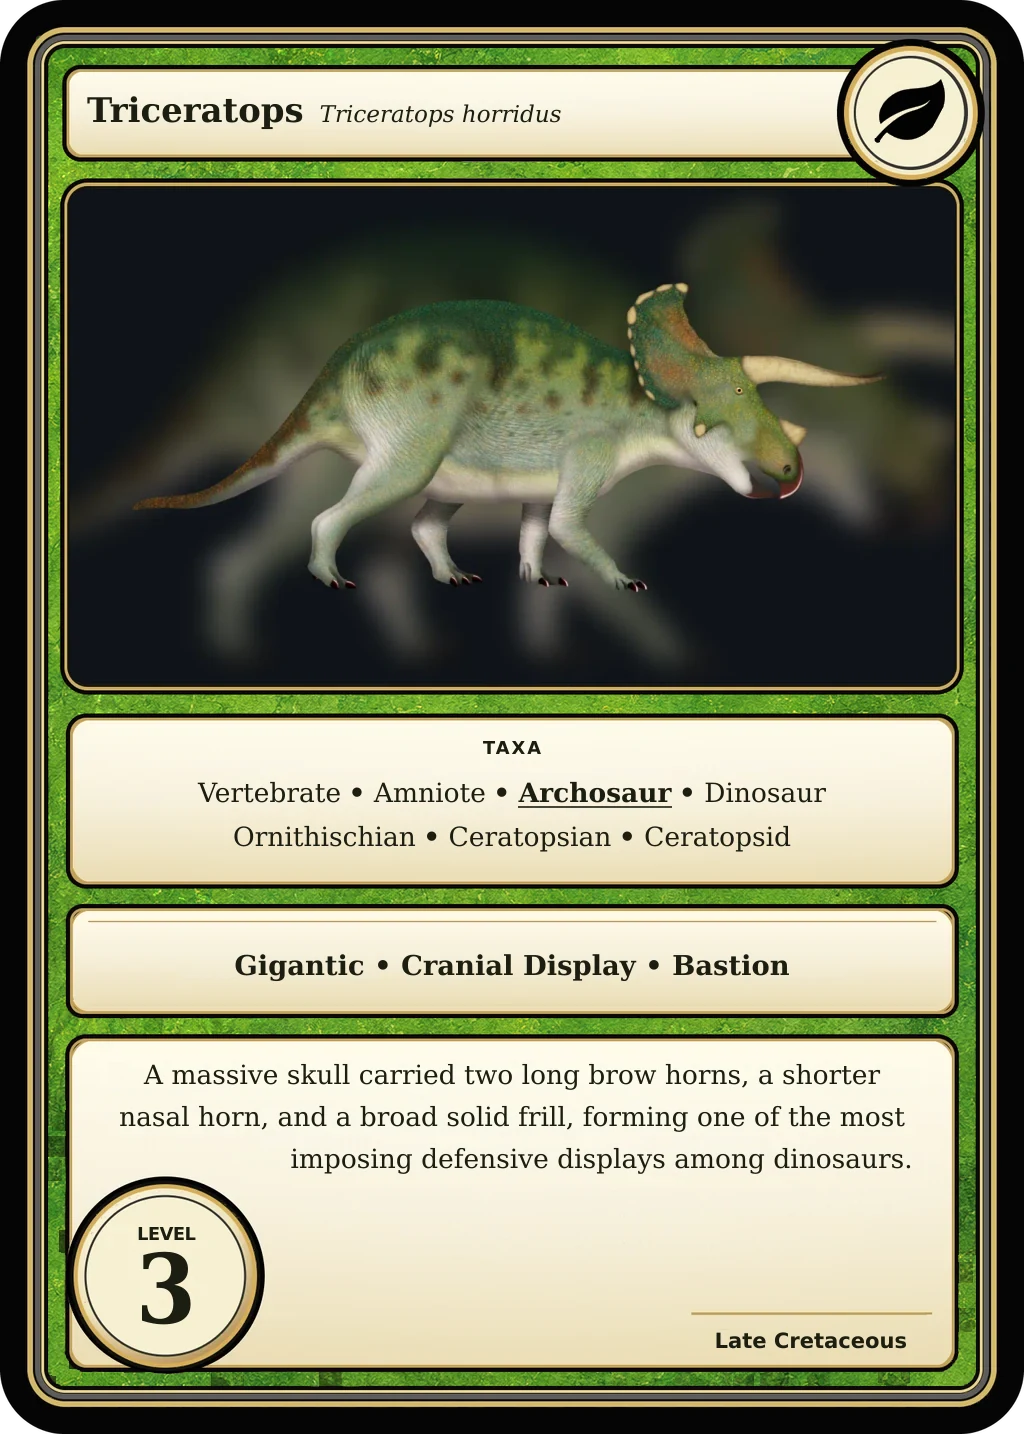
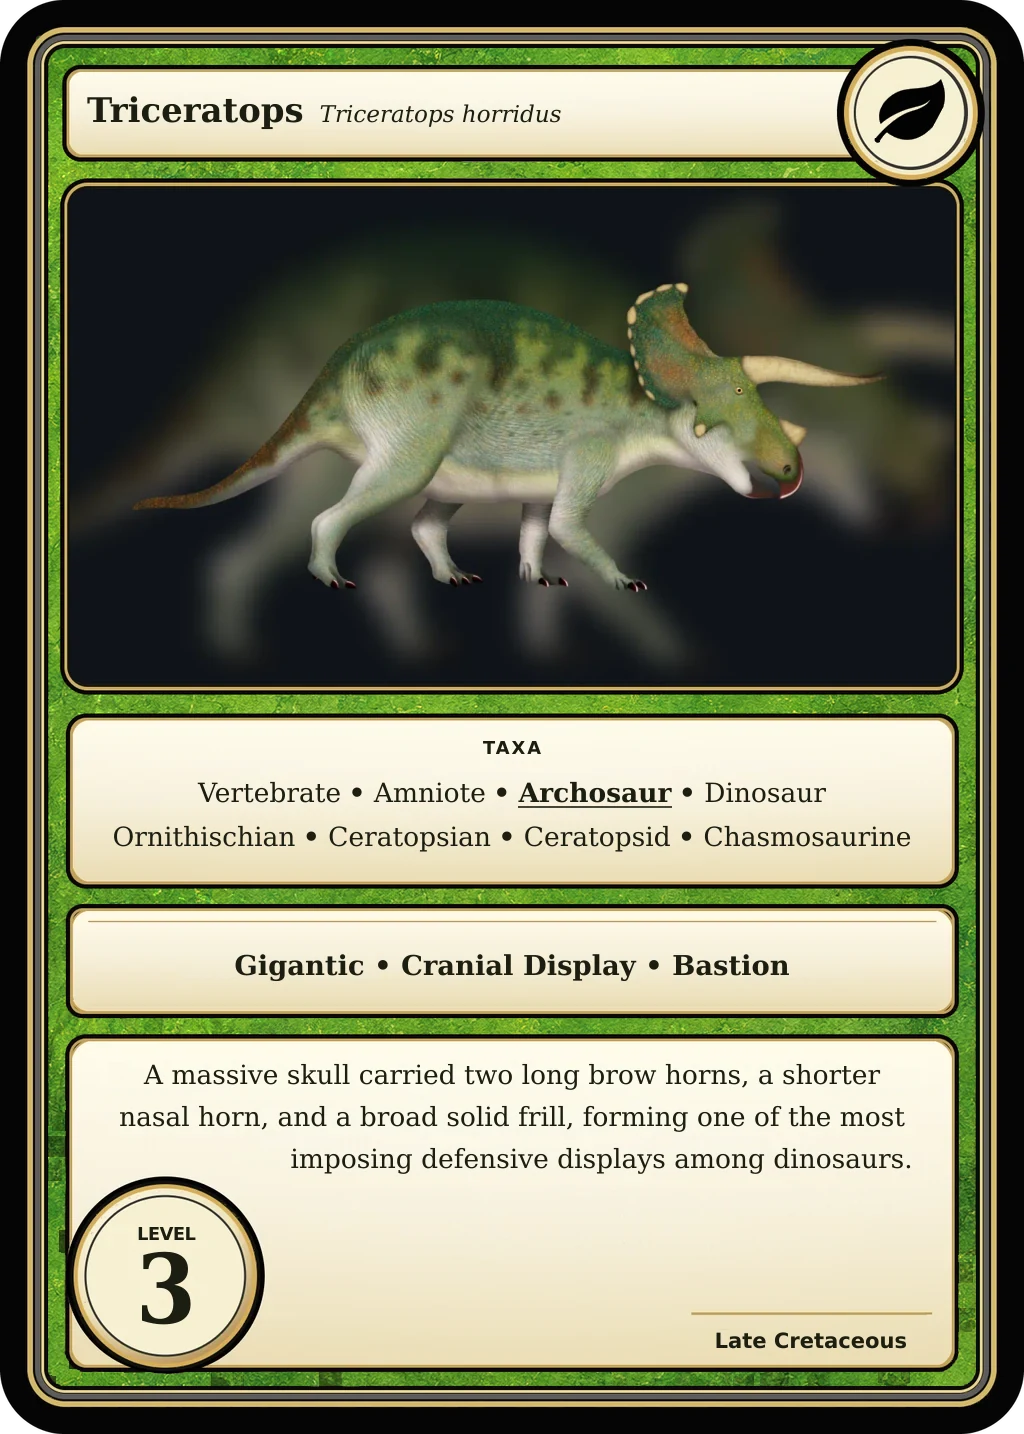
Make creature taxa consistent and remake their card faces
Gameplay Taxa: the whales are Synapsid like the other mammals, Horseshoe Crab
is Chelicerate like Jaekelopterus, and the marine reptiles are Diapsid, which
their taxa list.

Related cards now list the same ranks: every theropod lists Tetanuran >
Coelurosaur > Paravian where it applies, without Neotheropod or Maniraptoran;
the ornithischians gain Chasmosaurine, Saurolophine, Iguanodontian and
Ankylosaur; Megalodon gains Euselachian, Omnidens Ecdysozoan and Diplocaulus
Lepospondyl. The 29 affected card faces are remade, with long taxa lists on
three lines.

Changed region(s): [[0.1562, 0.5523, 0.8438, 0.6137]]

diff --git a/src/data/deck-3.ts b/src/data/deck-3.ts
@@ -153,7 +153,7 @@ export const DECK_3_UNIQUE_CREATURES: CreatureCard[] = [
     period: "Cambrian",
     periodColor: "Sky Blue",
     gameplayTaxon: "Stem Euarthropod",
-    taxa: ["Invertebrate", "Ecdysozoan", "Panarthropod", "Stem Euarthropod"],
+    taxa: ["Invertebrate", "Protostome", "Ecdysozoan", "Panarthropod", "Stem Euarthropod"],
     tags: ["Aquatic", "Apex Predator", "Transitional"],
     visualTags: [],
     role: "An unusually low-Level Apex Predator whose early phylogenetic position supports several Cambrian development routes.",
@@ -313,18 +313,8 @@ export const DECK_3_UNIQUE_CREATURES: CreatureCard[] = [
     diet: "Carnivore",
     period: "Quaternary",
     periodColor: "Ice White",
-    gameplayTaxon: "Mammal",
-    taxa: [
-      "Vertebrate",
-      "Gnathostome",
-      "Tetrapod",
-      "Amniote",
-      "Synapsid",
-      "Mammal",
-      "Cetacean",
-      "Odontocete",
-      "Delphinid",
-    ],
+    gameplayTaxon: "Synapsid",
+    taxa: ["Vertebrate", "Amniote", "Synapsid", "Mammal", "Cetacean", "Odontocete", "Delphinid"],
     tags: ["Aquatic", "Pack Hunter", "Apex Predator", "Resourceful"],
     visualTags: ["Countershaded", "Dorsal Fin", "Flippers"],
     role: "Coordinated Apex Predator whose Pack Hunter and Resourceful Tags represent learned, flexible group hunting.",
@@ -341,7 +331,7 @@ export const DECK_3_UNIQUE_CREATURES: CreatureCard[] = [
     period: "Neogene",
     periodColor: "Golden Ochre",
     gameplayTaxon: "Chondrichthyan",
-    taxa: ["Vertebrate", "Gnathostome", "Chondrichthyan", "Shark", "Lamniform", "Otodontid"],
+    taxa: ["Vertebrate", "Gnathostome", "Chondrichthyan", "Euselachian", "Shark", "Lamniform", "Otodontid"],
     tags: ["Aquatic", "Apex Predator", "Specialized", "Crushing Bite"],
     visualTags: ["Serrated Teeth"],
     role: "Specialized marine boss whose doubled Crushing Bite is built to break exceptional attacked-only defenses.",
@@ -374,18 +364,8 @@ export const DECK_3_UNIQUE_CREATURES: CreatureCard[] = [
     diet: "Carnivore",
     period: "Neogene",
     periodColor: "Golden Ochre",
-    gameplayTaxon: "Mammal",
-    taxa: [
-      "Vertebrate",
-      "Gnathostome",
-      "Tetrapod",
-      "Amniote",
-      "Synapsid",
-      "Mammal",
-      "Cetacean",
-      "Odontocete",
-      "Physeteroid",
-    ],
+    gameplayTaxon: "Synapsid",
+    taxa: ["Vertebrate", "Amniote", "Synapsid", "Mammal", "Cetacean", "Odontocete", "Physeteroid"],
     tags: ["Aquatic", "Apex Predator", "Specialized", "Diver"],
     visualTags: ["Massive Teeth", "Flippers"],
     role: "Specialized doubles Diver from +1 to +2 Battle Level while attacking printed Aquatic prey.",
@@ -401,18 +381,8 @@ export const DECK_3_UNIQUE_CREATURES: CreatureCard[] = [
     diet: "Carnivore",
     period: "Quaternary",
     periodColor: "Ice White",
-    gameplayTaxon: "Mammal",
-    taxa: [
-      "Vertebrate",
-      "Gnathostome",
-      "Tetrapod",
-      "Amniote",
-      "Synapsid",
-      "Mammal",
-      "Cetacean",
-      "Mysticete",
-      "Balaenopterid",
-    ],
+    gameplayTaxon: "Synapsid",
+    taxa: ["Vertebrate", "Amniote", "Synapsid", "Mammal", "Cetacean", "Mysticete", "Balaenopterid"],
     tags: ["Aquatic", "Filter Feeder", "Specialized", "Gigantic"],
     visualTags: ["Baleen", "Ventral Grooves", "Paired Blowholes", "Flippers", "Tail Flukes"],
     role: "Exceptional non-predatory Deck 3 capstone. Filter Feeder supplies utility, while Specialized doubles Gigantic's numerical effects without changing its protection.",

diff --git a/src/data/general-pool.ts b/src/data/general-pool.ts
@@ -36,7 +36,16 @@ export const GENERAL_POOL_CANDIDATES: CreatureCard[] = [
     period: "Cretaceous",
     periodColor: "Lime Green",
     gameplayTaxon: "Archosaur",
-    taxa: ["Vertebrate", "Amniote", "Archosaur", "Dinosaur", "Ornithischian", "Thyreophoran", "Ankylosaurid"],
+    taxa: [
+      "Vertebrate",
+      "Amniote",
+      "Archosaur",
+      "Dinosaur",
+      "Ornithischian",
+      "Thyreophoran",
+      "Ankylosaur",
+      "Ankylosaurid",
+    ],
     tags: ["Armament", "Retaliation"],
     visualTags: ["Armored", "Tail Club", "Beaked", "Quadrupedal"],
     role: "Durable reactive lane anchor and a second home for the tail-defense package.",
@@ -192,7 +201,16 @@ export const GENERAL_POOL_CANDIDATES: CreatureCard[] = [
     period: "Cretaceous",
     periodColor: "Lime Green",
     gameplayTaxon: "Archosaur",
-    taxa: ["Vertebrate", "Amniote", "Archosaur", "Dinosaur", "Ornithischian", "Ceratopsian", "Ceratopsid"],
+    taxa: [
+      "Vertebrate",
+      "Amniote",
+      "Archosaur",
+      "Dinosaur",
+      "Ornithischian",
+      "Ceratopsian",
+      "Ceratopsid",
+      "Chasmosaurine",
+    ],
     tags: ["Gigantic", "Cranial Display", "Retaliation"],
     visualTags: ["Horns", "Frill", "Beaked", "Quadrupedal"],
     role: "Defensive boss that rewards building the ceratopsian branch to a protected endpoint.",
@@ -337,7 +355,7 @@ export const GENERAL_POOL_CANDIDATES: CreatureCard[] = [
     diet: "Carnivore",
     period: "Jurassic",
     periodColor: "Logo Red",
-    gameplayTaxon: "Reptile",
+    gameplayTaxon: "Diapsid",
     taxa: ["Vertebrate", "Amniote", "Diapsid", "Ichthyosaur"],
     tags: ["Aquatic", "Diver", "Elusive"],
     visualTags: ["Flippers", "Tail Fluke"],
@@ -354,7 +372,7 @@ export const GENERAL_POOL_CANDIDATES: CreatureCard[] = [
     diet: "Carnivore",
     period: "Triassic",
     periodColor: "Amber Orange",
-    gameplayTaxon: "Reptile",
+    gameplayTaxon: "Diapsid",
     taxa: ["Vertebrate", "Amniote", "Diapsid", "Ichthyosaur", "Shastasaurid"],
     tags: ["Aquatic", "Gigantic"],
     visualTags: ["Flippers"],
@@ -371,7 +389,7 @@ export const GENERAL_POOL_CANDIDATES: CreatureCard[] = [
     diet: "Carnivore",
     period: "Jurassic",
     periodColor: "Logo Red",
-    gameplayTaxon: "Reptile",
+    gameplayTaxon: "Diapsid",
     taxa: ["Vertebrate", "Amniote", "Diapsid", "Sauropterygian", "Plesiosaur"],
     tags: ["Aquatic", "Diver"],
     visualTags: ["Long Neck", "Flippers"],
@@ -388,7 +406,7 @@ export const GENERAL_POOL_CANDIDATES: CreatureCard[] = [
     diet: "Carnivore",
     period: "Cretaceous",
     periodColor: "Lime Green",
-    gameplayTaxon: "Reptile",
+    gameplayTaxon: "Diapsid",
     taxa: ["Vertebrate", "Amniote", "Diapsid", "Lepidosaur", "Squamate", "Mosasaurid"],
     tags: ["Aquatic", "Apex Predator", "Gigantic"],
     visualTags: ["Flippers", "Tail Fluke"],
@@ -439,7 +457,7 @@ export const GENERAL_POOL_CANDIDATES: CreatureCard[] = [
     period: "Neogene",
     periodColor: "Golden Ochre",
     gameplayTaxon: "Chondrichthyan",
-    taxa: ["Vertebrate", "Chondrichthyan", "Shark", "Lamniform", "Otodontid"],
+    taxa: ["Vertebrate", "Gnathostome", "Chondrichthyan", "Euselachian", "Shark", "Lamniform", "Otodontid"],
     tags: ["Aquatic", "Apex Predator", "Specialized", "Crushing Bite"],
     visualTags: ["Serrated Teeth"],
     role: "Specialized marine anti-fortification boss whose extreme bite punishes stacked reactive defenses.",

diff --git a/src/data/deck-2.ts b/src/data/deck-2.ts
@@ -69,7 +69,16 @@ export const DECK_2_UNIQUE_CREATURES: CreatureCard[] = [
     period: "Cretaceous",
     periodColor: "Lime Green",
     gameplayTaxon: "Archosaur",
-    taxa: ["Vertebrate", "Amniote", "Archosaur", "Dinosaur", "Ornithischian", "Thyreophoran", "Ankylosaurid"],
+    taxa: [
+      "Vertebrate",
+      "Amniote",
+      "Archosaur",
+      "Dinosaur",
+      "Ornithischian",
+      "Thyreophoran",
+      "Ankylosaur",
+      "Ankylosaurid",
+    ],
     tags: ["Osteoderm", "Armament"],
     visualTags: ["Armored", "Tail Club", "Beaked", "Quadrupedal"],
     role: "Durable Level 1 bridge whose broad Cretaceous and Archosaur profile deliberately opens several Level 2 routes.",
@@ -170,6 +179,9 @@ export const DECK_2_UNIQUE_CREATURES: CreatureCard[] = [
       "Dinosaur",
       "Saurischian",
       "Theropod",
+      "Tetanuran",
+      "Coelurosaur",
+      "Paravian",
       "Avialan",
       "Bird",
       "Palaeognath",
@@ -250,6 +262,7 @@ export const DECK_2_UNIQUE_CREATURES: CreatureCard[] = [
       "Dinosaur",
       "Ornithischian",
       "Ornithopod",
+      "Iguanodontian",
       "Hadrosaurid",
       "Lambeosaurine",
     ],
@@ -302,7 +315,8 @@ export const DECK_2_UNIQUE_CREATURES: CreatureCard[] = [
       "Dinosaur",
       "Saurischian",
       "Theropod",
-      "Maniraptoran",
+      "Tetanuran",
+      "Coelurosaur",
       "Therizinosaurid",
     ],
     tags: ["Specialized", "Deimatic"],
@@ -408,7 +422,17 @@ export const DECK_2_UNIQUE_CREATURES: CreatureCard[] = [
     period: "Cretaceous",
     periodColor: "Lime Green",
     gameplayTaxon: "Archosaur",
-    taxa: ["Vertebrate", "Amniote", "Archosaur", "Dinosaur", "Ornithischian", "Ornithopod", "Hadrosaurid"],
+    taxa: [
+      "Vertebrate",
+      "Amniote",
+      "Archosaur",
+      "Dinosaur",
+      "Ornithischian",
+      "Ornithopod",
+      "Iguanodontian",
+      "Hadrosaurid",
+      "Saurolophine",
+    ],
     tags: ["Gigantic", "Herd"],
     visualTags: [],
     role: "High-end Herd endpoint that combines enormous hadrosaur size with Deck 2's horizontal development engine.",
@@ -451,7 +475,16 @@ export const DECK_2_UNIQUE_CREATURES: CreatureCard[] = [
     period: "Cretaceous",
     periodColor: "Lime Green",
     gameplayTaxon: "Archosaur",
-    taxa: ["Vertebrate", "Amniote", "Archosaur", "Dinosaur", "Ornithischian", "Ceratopsian", "Ceratopsid"],
+    taxa: [
+      "Vertebrate",
+      "Amniote",
+      "Archosaur",
+      "Dinosaur",
+      "Ornithischian",
+      "Ceratopsian",
+      "Ceratopsid",
+      "Chasmosaurine",
+    ],
     tags: ["Gigantic", "Cranial Display", "Bastion"],
     visualTags: ["Horns", "Frill", "Beaked", "Quadrupedal"],
     role: "Defensive boss and active barrier piece whose Bastion protects adjacent low-Level Creatures.",

diff --git a/tests/engine/rules.test.ts b/tests/engine/rules.test.ts
@@ -570,7 +570,7 @@ test("Blue Whale is the playable Level 4 capstone with locked normal and Rapid S
   assert.equal(blueWhale.period, "Quaternary");
   assert.equal(blueWhale.periodColor, "Ice White");
   assert.equal(blueWhale.diet, "Carnivore");
-  assert.equal(blueWhale.gameplayTaxon, "Mammal");
+  assert.equal(blueWhale.gameplayTaxon, "Synapsid");
   assert.deepEqual(blueWhale.tags, ["Aquatic", "Filter Feeder", "Specialized", "Gigantic"]);
   assert.deepEqual(blueWhale.visualTags, ["Baleen", "Ventral Grooves", "Paired Blowholes", "Flippers", "Tail Flukes"]);
   assert.equal(tagEffectMultiplier(blueWhale, "Gigantic"), 2);
